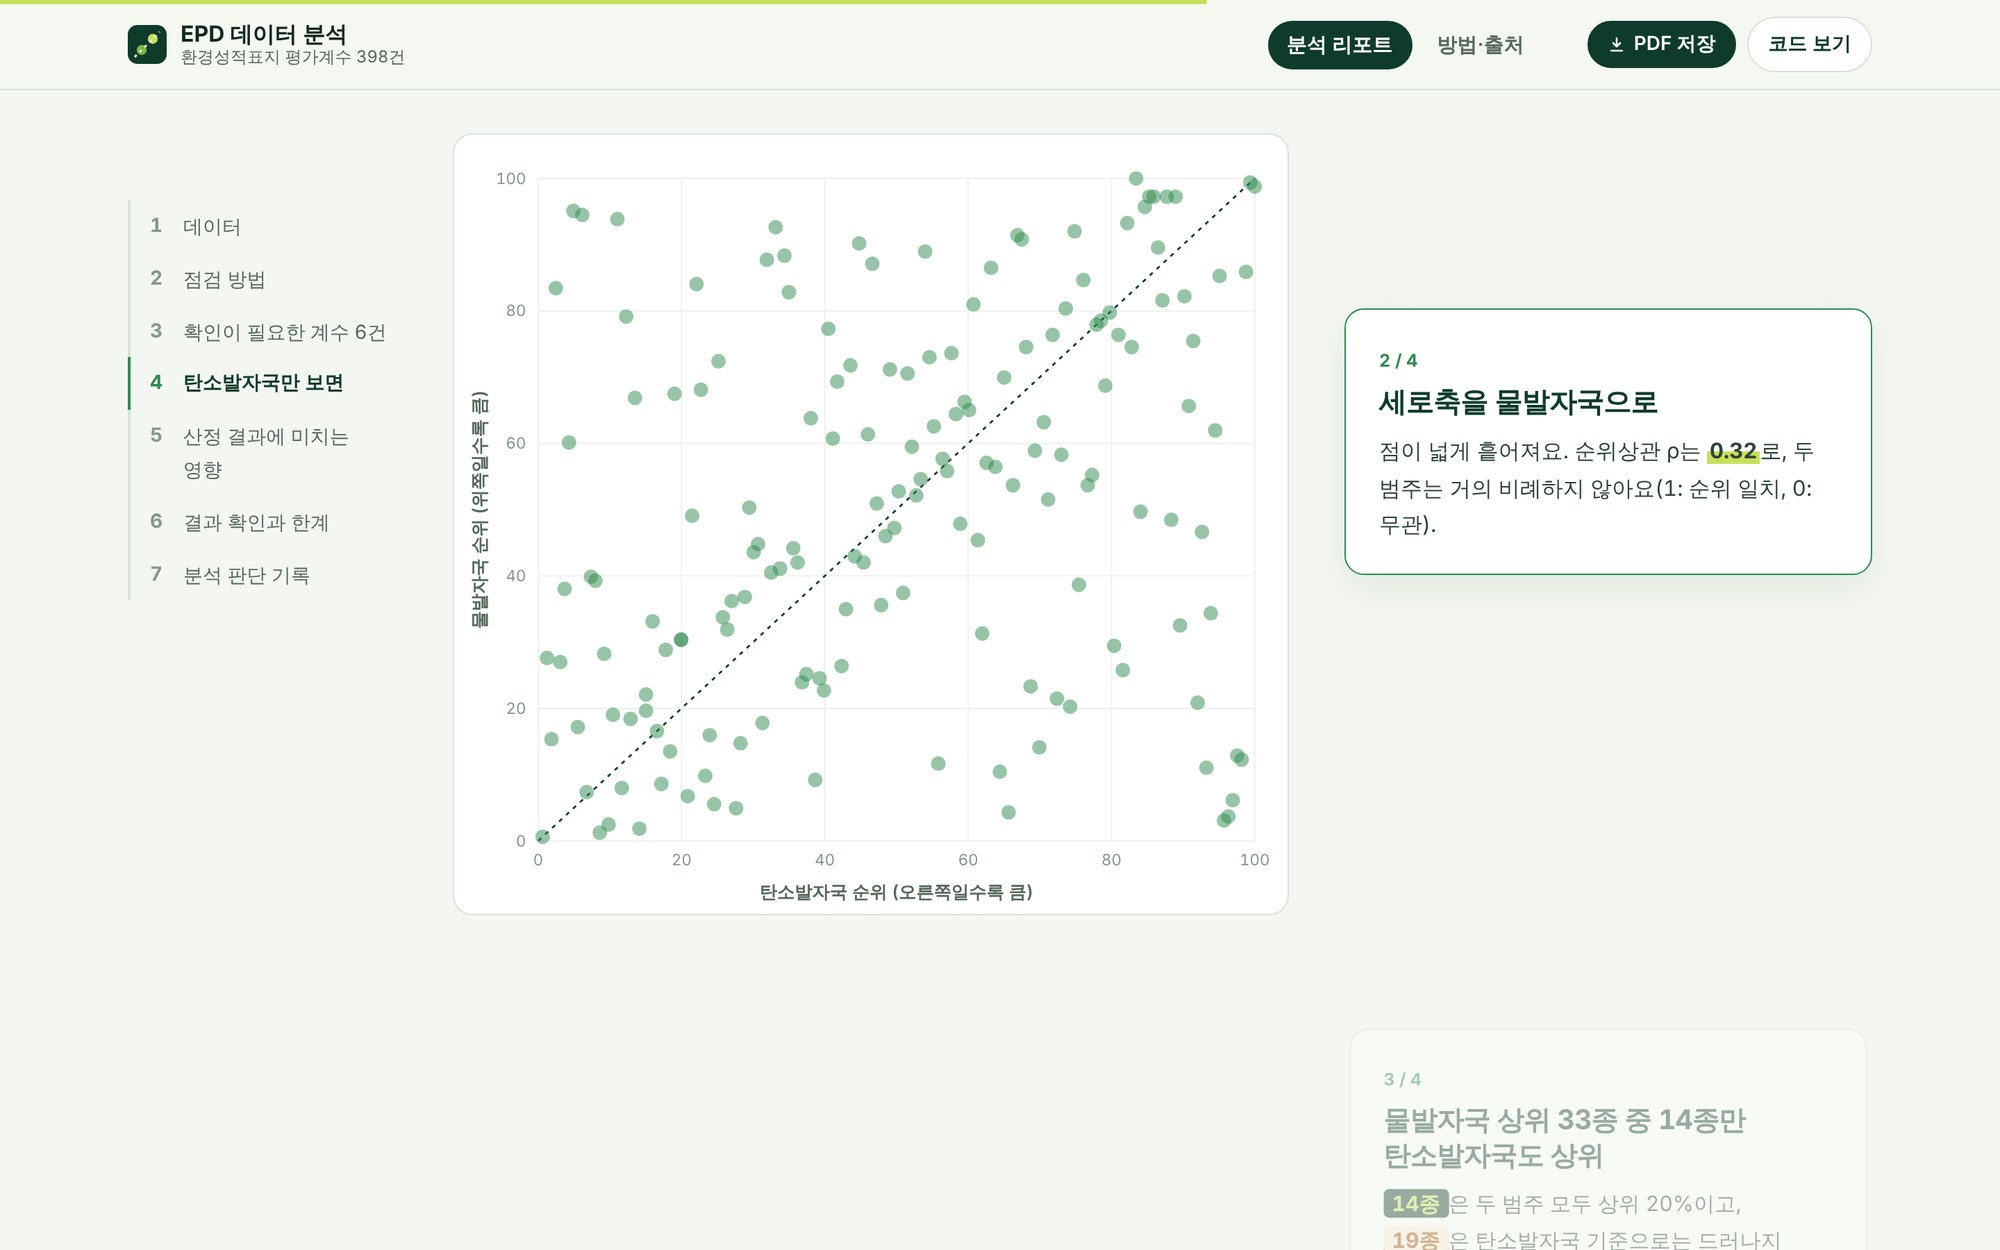
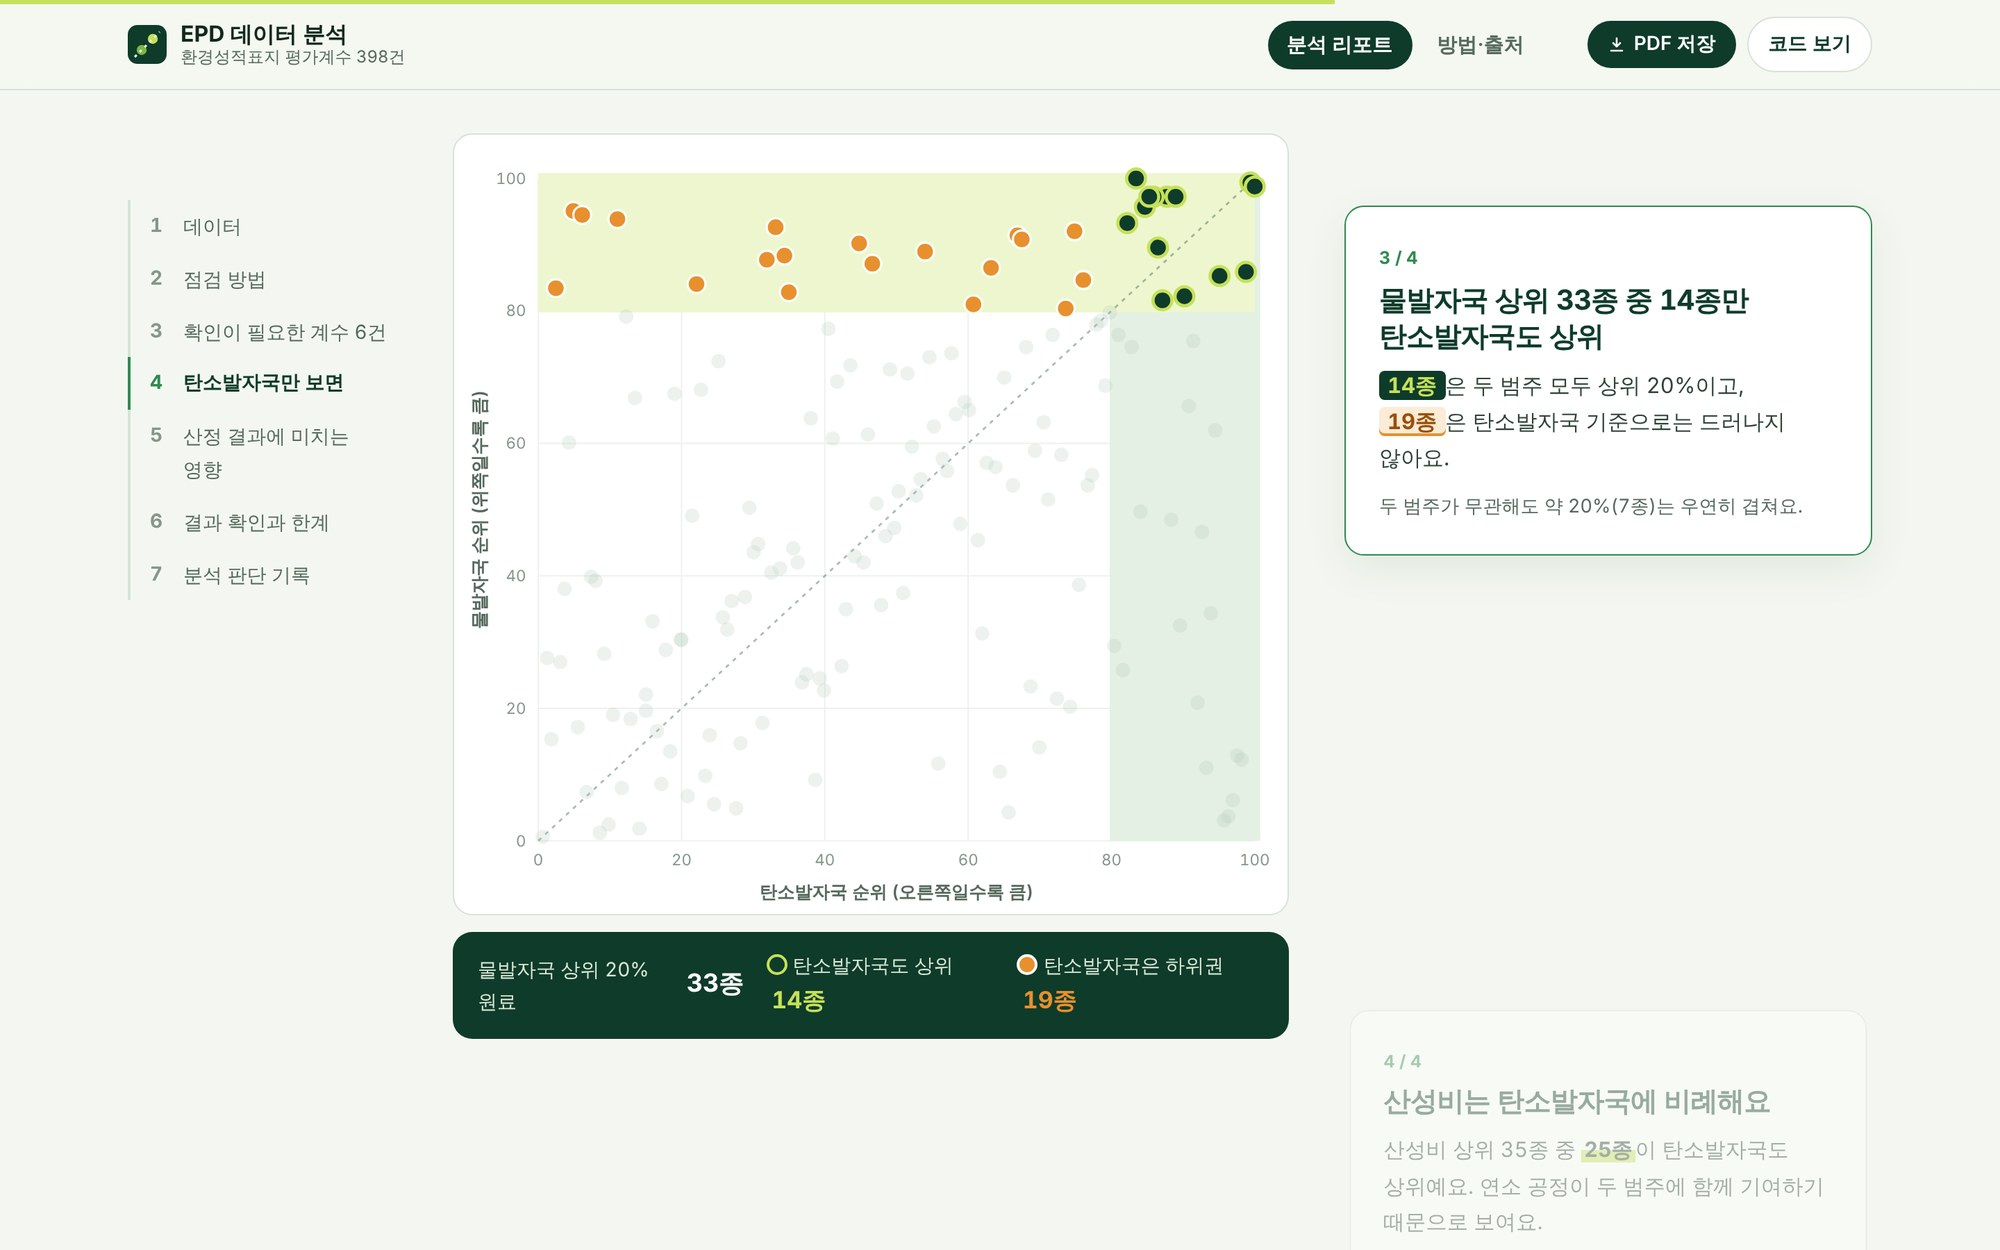
BMW 회피배출 화면·EPD 산점도 교체, EPD 숫자 최신화, 공기압 노드 추가
Claude-Session: https://claude.ai/code/session_01Mfsu8jyyX1M7o9jJuoLCCr

diff --git a/index.html b/index.html
@@ -335,7 +335,7 @@ main{margin-left:210px}
           <div class="shot active"><img src="img/bmw-hero.jpg?v=3" alt="BMW 리포트 메인 화면"></div>
           <div class="shot"><img src="img/bmw-result.jpg?v=3" alt="차종별 생애주기 배출" loading="lazy"></div>
           <div class="shot"><img src="img/bmw-scope3.jpg?v=3" alt="Scope 3 범주 산정" loading="lazy"></div>
-          <div class="shot"><img src="img/bmw-avoided.jpg?v=3" alt="회피배출 검증" loading="lazy"></div>
+          <div class="shot"><img src="img/bmw-avoided.jpg?v=4" alt="회피배출 검증" loading="lazy"></div>
         </div>
       </div>
       <div class="tabs"><button class="tab active">메인 화면</button><button class="tab">생애주기 배출</button><button class="tab">Scope 3</button><button class="tab">회피배출</button></div>
@@ -354,7 +354,7 @@ main{margin-left:210px}
       <div class="figures">
         <div class="fig"><div class="n">398<small>건</small></div><div class="l">평가계수<br>전수 점검</div></div>
         <div class="fig"><div class="n">6<small>건</small></div><div class="l">다시 확인할 값<br>발견</div></div>
-        <div class="fig"><div class="n">1,800<small>배</small></div><div class="l">계수 하나로 바뀌는<br>제품 물발자국</div></div>
+        <div class="fig"><div class="n">91<small>배</small></div><div class="l">전선 1g 계수로 바뀌는<br>제품 물발자국</div></div>
       </div>
       <ul class="point-box">
         <li>4가지 기준으로 398건 × 7개 영향범주 <b>전수 점검</b></li>
@@ -372,7 +372,7 @@ main{margin-left:210px}
           <div class="shot active"><img src="img/epd-hero.jpg?v=3" alt="EPD 리포트 메인 화면" loading="lazy"></div>
           <div class="shot"><img src="img/epd-c3.jpg?v=3" alt="다시 확인할 값" loading="lazy"></div>
           <div class="shot"><img src="img/epd-c4.jpg?v=3" alt="계산 결과에 주는 영향" loading="lazy"></div>
-          <div class="shot"><img src="img/epd-c5.jpg?v=3" alt="탄소발자국 순위와 물발자국 순위 산점도" loading="lazy"></div>
+          <div class="shot"><img src="img/epd-c5.jpg?v=4" alt="물발자국 상위 33종 중 14종만 탄소발자국도 상위" loading="lazy"></div>
         </div>
       </div>
       <div class="tabs"><button class="tab active">메인 화면</button><button class="tab">다시 확인할 값</button><button class="tab">영향 계산</button><button class="tab">영향범주 비교</button></div>
@@ -600,7 +600,7 @@ main{margin-left:210px}
   <div class="section-inner">
     <div class="project-meta">MORE PROJECTS</div>
     <h3 class="project-title">기타 프로젝트</h3>
-    <div class="stack-line">n8n 날씨 자동화 · 웹 개발 학습</div>
+    <div class="stack-line">n8n 자동화 · 웹 프로젝트</div>
     <div class="more-grid">
       <div class="card w fade">
         <div class="pair2">
@@ -614,7 +614,7 @@ main{margin-left:210px}
         <div class="pair3">
           <div class="th light" id="tire-form"><img src="img/tire-form.jpg?v=3" alt="공기압 계산기 차량 선택 화면" class="zoom" onerror="this.parentNode.remove()"><span>공기압 계산기</span></div>
           <div class="th discord"><img src="img/tire-discord.jpg" alt="디스코드로 자동 전송된 타이어 리포트" class="zoom"></div>
-          <div class="th light" id="tire-nodes"><img src="img/tire-nodes.jpg" alt="공기압 자동화 n8n 노드" class="zoom" onerror="this.parentNode.remove()"><span>n8n 노드 5개</span></div>
+          <div class="th light n8n" id="tire-nodes"><img src="img/tire-nodes.jpg?v=4" alt="공기압 자동화 n8n 노드" class="zoom" onerror="this.parentNode.remove()"><span>n8n 노드 5개</span></div>
         </div>
         <div class="bd"><div class="m">n8n · JavaScript · Open-Meteo 날씨 API · Discord</div><h4>서킷 타이어 공기압 자동화</h4><p>계산기에서 차량·서킷·목표 공기압을 고르면, 노면 온도로 추천 냉간 공기압을 계산해 <b>디스코드로 자동 전송</b>합니다.</p>
         <a class="btn" href="https://honeysuckle-rose-a94.notion.site/3c2a892fe8d6809b90eee22e41aa4d37" target="_blank" rel="noopener">Notion →</a></div>
